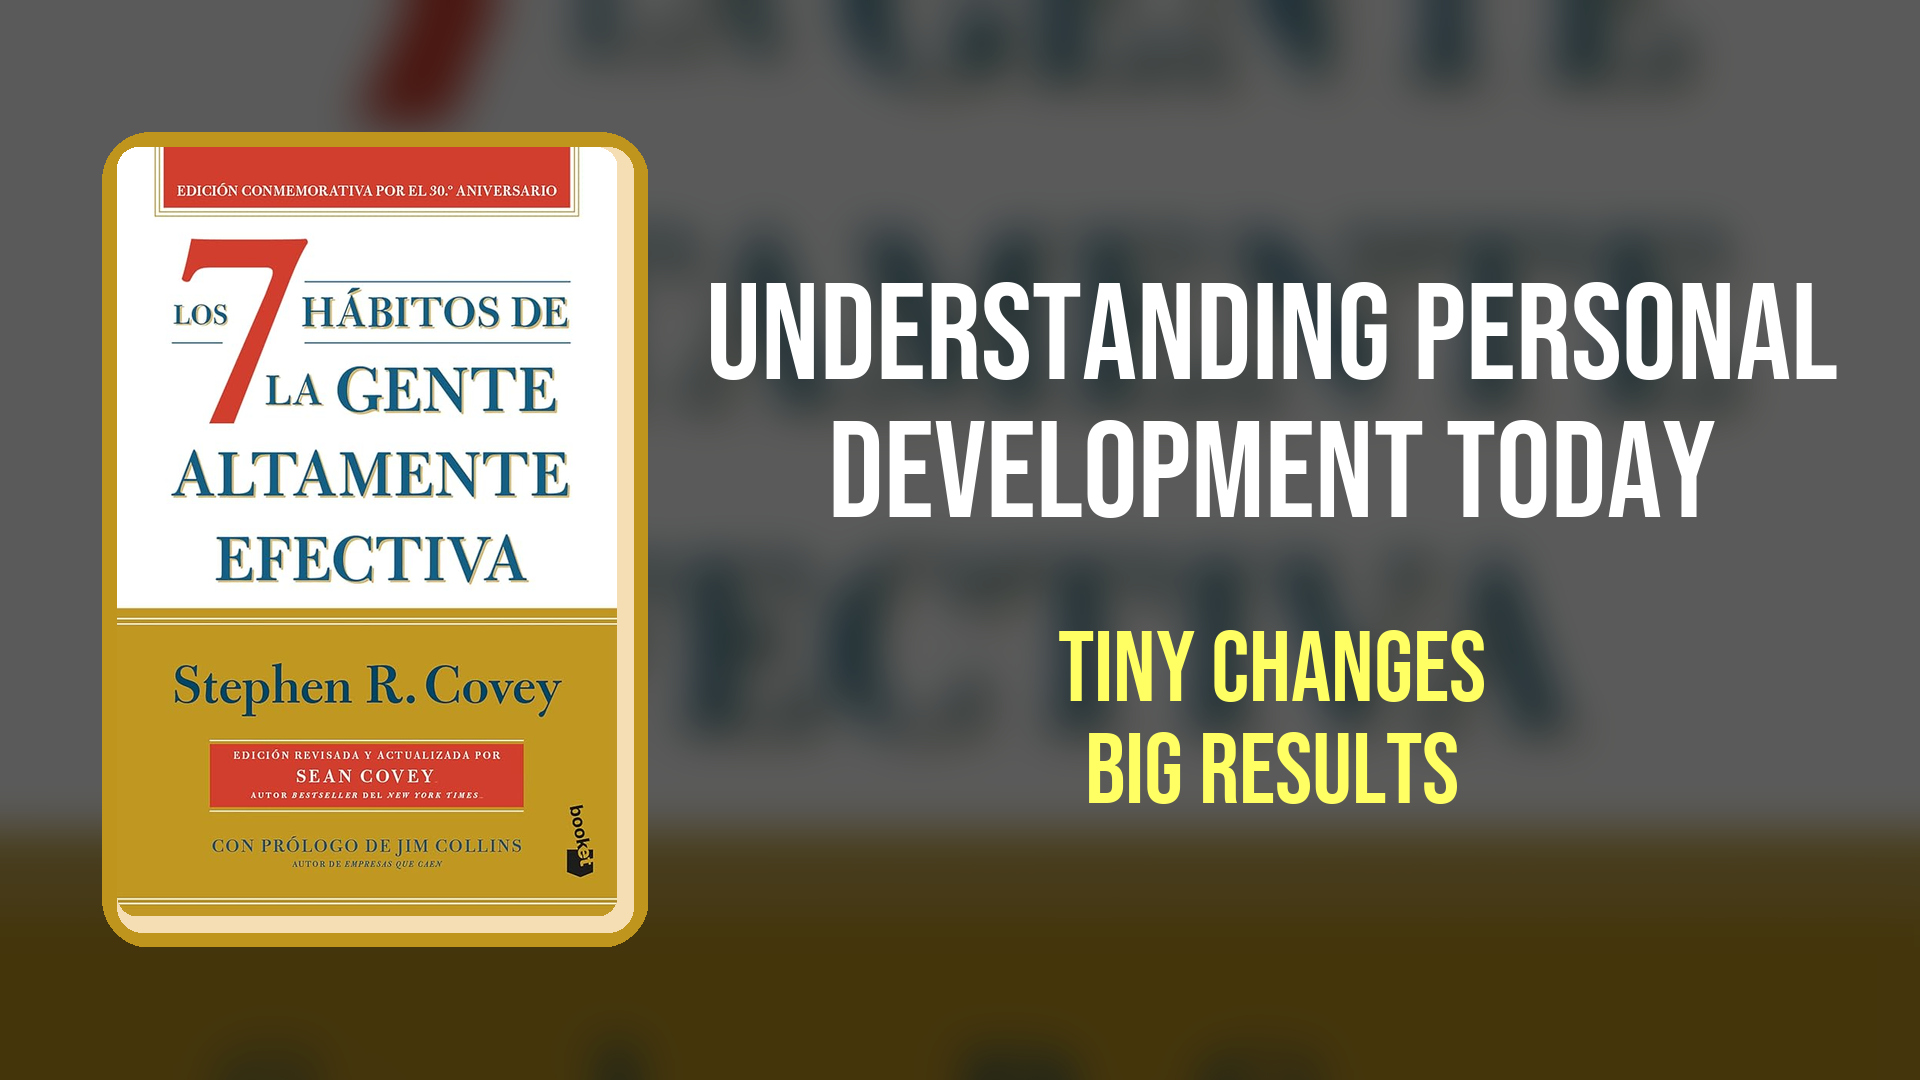
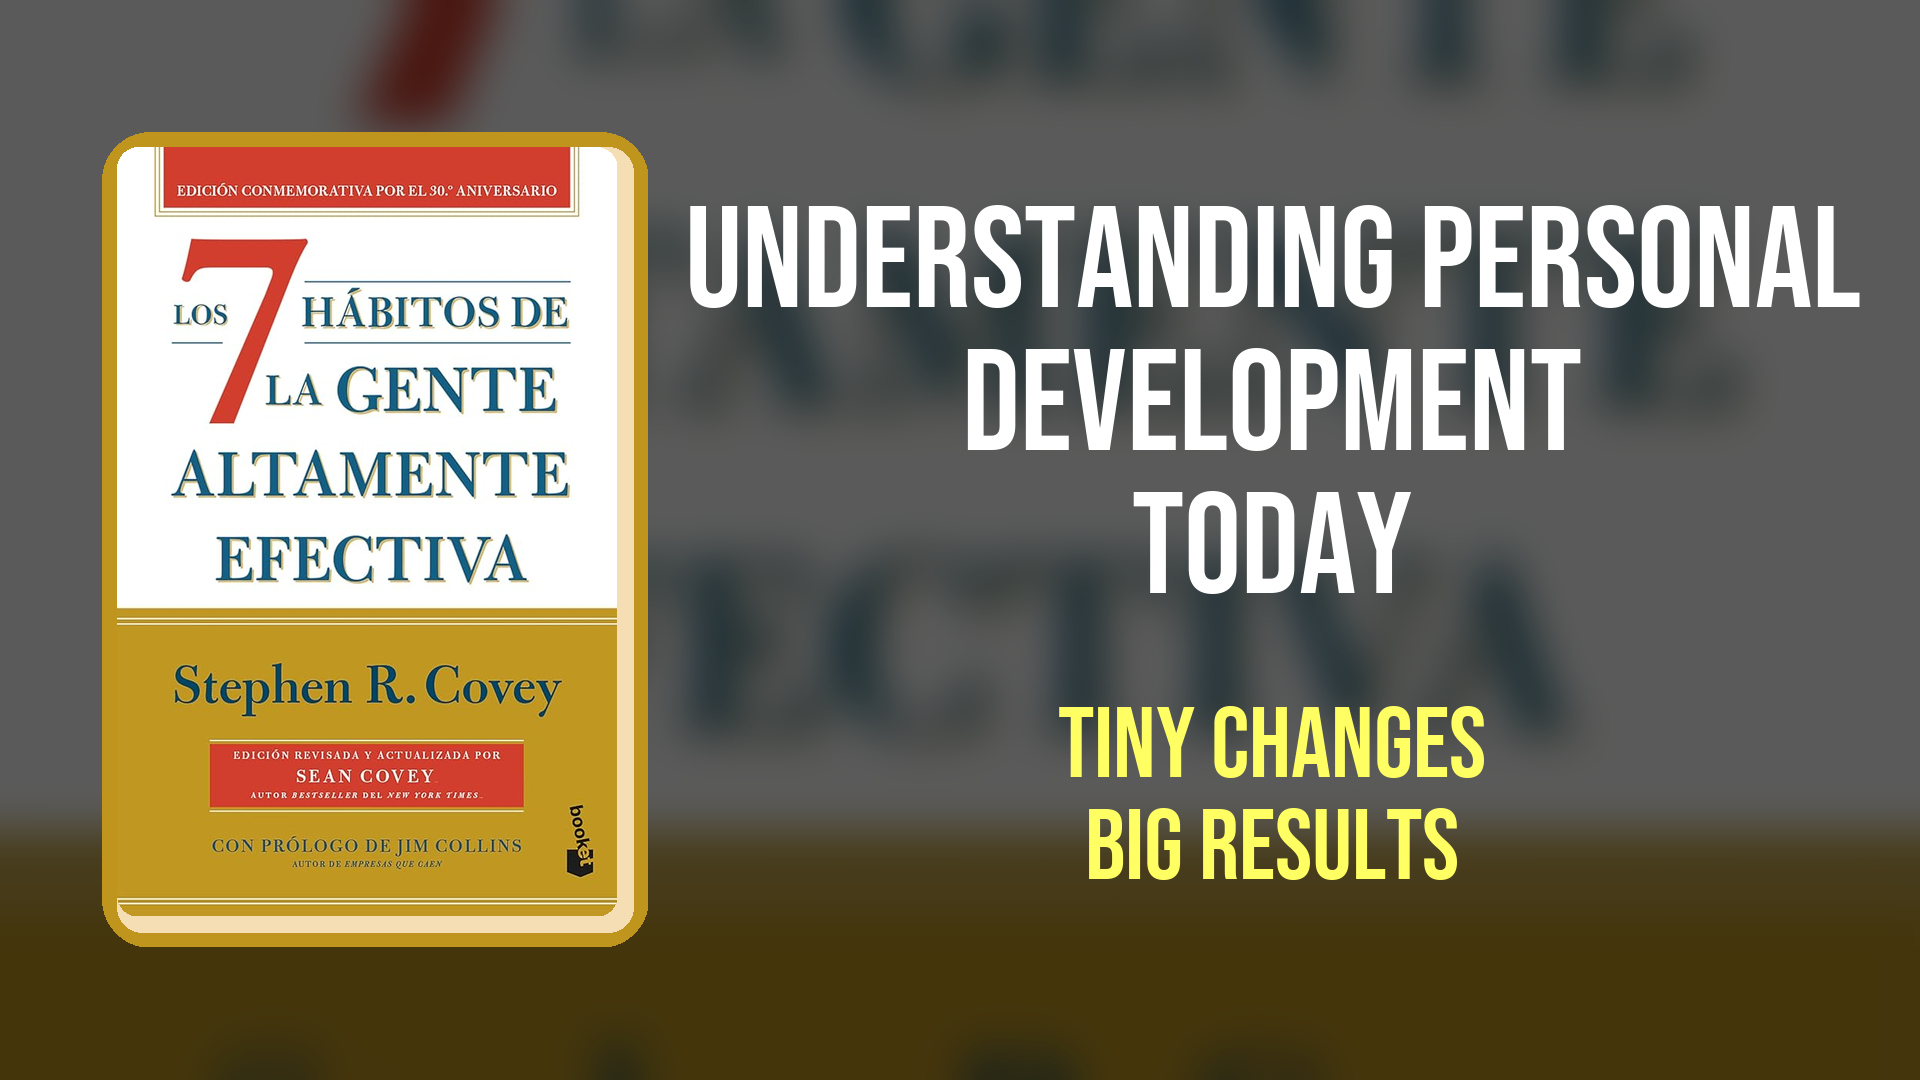
last

Changed region(s): [[0.3438, 0.1833, 0.9688, 0.55], [0.5312, 0.5806, 0.7812, 0.825]]

diff --git a/src/infrastructure/adapters/thumbnail.py b/src/infrastructure/adapters/thumbnail.py
@@ -577,7 +577,10 @@ def _calculate_optimal_title_size(
         else:
             size *= scaling.get("3_words_short", 1.1)  # Keep small for short words
     elif word_count == 4:
-        size *= scaling.get("4_words", 1.2)
+        before = size
+        scaling_value = scaling.get("4_words", 2.5)
+        size *= scaling_value
+        print(f"[thumb] DEBUG 4-word scaling: {before:.1f} × {scaling_value} = {size:.1f}")
     elif word_count == 5:
         size *= scaling.get("5_words", 1.0)
     elif word_count == 6:
@@ -1234,9 +1237,9 @@ def generate_thumbnail(
         # Split as 2+1 for better balance
         title_lines = [" ".join(words[:2]), words[2]]
     elif word_count == 4:
-        target_lines = 2
-        # Split as 2+2 for perfect balance
-        title_lines = [" ".join(words[:2]), " ".join(words[2:])]
+        target_lines = 3
+        # Split as 2+1+1 for better readability with long words
+        title_lines = [" ".join(words[:2]), words[2], words[3]]
     elif word_count == 5:
         target_lines = 3
         # Split as 2+2+1 for balanced distribution
@@ -1270,7 +1273,7 @@ def generate_thumbnail(
         elif word_count == 3:
             title_lines = [" ".join(words[:2]), words[2]]
         elif word_count == 4:
-            title_lines = [" ".join(words[:2]), " ".join(words[2:])]
+            title_lines = [" ".join(words[:2]), words[2], words[3]]
         elif word_count == 5:
             title_lines = [" ".join(words[:2]), " ".join(words[2:4]), words[4]]
         elif word_count == 6:

diff --git a/scripts/quick_thumbnail.py b/scripts/quick_thumbnail.py
@@ -3,6 +3,10 @@ Quick Thumbnail Generator
 Generate a simple thumbnail with 3-word main title and 4-word subtitle
 """
 from pathlib import Path
+import sys
+# Add parent directory to path
+sys.path.insert(0, str(Path(__file__).resolve().parents[1]))
+
 from src.infrastructure.adapters.thumbnail import generate_thumbnail
 import json
 import tempfile
